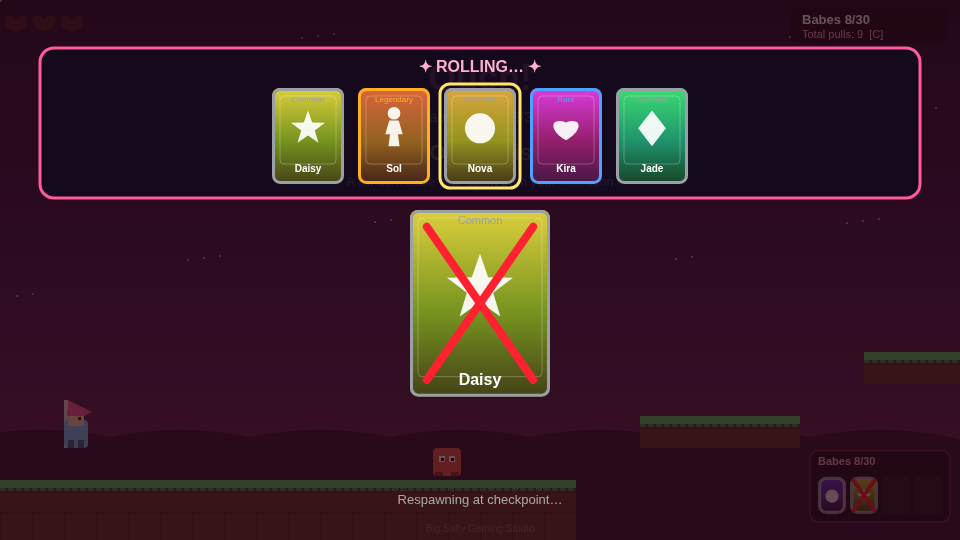
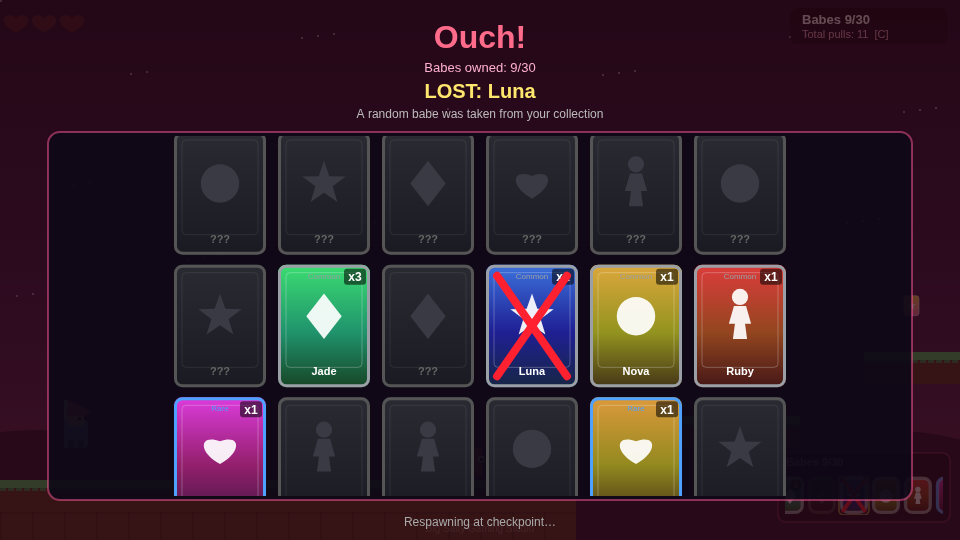
Death grid + HUD 5-slot window over sorted babe pool
Ouch screen shows gallery-style scrolled grid with red X on the
lost babe. HUD slides a 5-slot window to focus gains/losses.

diff --git a/index.html b/index.html
@@ -555,7 +555,6 @@ let slot = null; // slot machine overlay (gameplay keeps running)
 let slotQueue = 0; // pending rolls earned while a roll is already playing
 let loseAnim = null;
 let winStats = null;
-let recentPicks = []; // last up to 4 babe ids for HUD tray
 let runGained = [];   // babe ids gained this run (for win screen)
 let gallery = {
   filter: "all", // all | owned | missing | common | rare | epic | legendary
@@ -563,6 +562,17 @@ let gallery = {
   selected: null, // babe id
 };
 const GALLERY_FILTERS = ["all", "owned", "missing", "common", "rare", "epic", "legendary"];
+// Bottom-right HUD: 5-slot window into sorted full pool
+const HUD_SLOTS = 5;
+const HUD_CW = 28;
+const HUD_GAP = 4;
+let hudTray = {
+  scroll: 0,
+  targetScroll: 0,
+  highlightId: null,
+  highlightT: 0,
+};
+let deathGridScroll = 0; // snap-scroll so lost babe is visible
 
 const player = {
   x: 64, y: 14*TILE - 40, w: 24, h: 36,
@@ -585,7 +595,11 @@ function resetLevel(full) {
     checkpointIdx = 0;
     collection = loadCollection();
     runGained = [];
-    recentPicks = [];
+    hudTray.scroll = 0;
+    hudTray.targetScroll = 0;
+    hudTray.highlightId = null;
+    hudTray.highlightT = 0;
+    deathGridScroll = 0;
     gallery.scroll = 0;
     gallery.selected = null;
     gallery.filter = "all";
@@ -692,6 +706,9 @@ function onHeartsZero() {
     sfx.lose();
   }
   loseAnim = { t: 0, name: lostName, lostId, lostPrevCount, dur: 2.2 };
+  if (lostId) focusHudOnBabe(lostId);
+  // Snap death grid so lost babe is centered (computed in drawDead from list)
+  deathGridScroll = -1; // sentinel: recompute once
   state = "dead";
 }
 
@@ -758,9 +775,8 @@ function finishSlot() {
   const prev = collection[id] || 0;
   collection[id] = prev + 1;
   saveCollection(collection);
-  recentPicks.unshift(id);
-  if (recentPicks.length > 4) recentPicks.length = 4;
   runGained.push(id);
+  focusHudOnBabe(id);
   if (prev === 0) {
     addCallout("NEW! " + slot.result.name, "#ffe66d");
     sfx.new();
@@ -1143,22 +1159,22 @@ function drawWorld() {
 }
 
 
-// Tiny always-on babe tray (gameplay only) — ~1/8 area of death mini panel, CARD_ASPECT locked
 function drawHudLiveBabes() {
   if (state !== "play" && state !== "dead") return;
 
-  const thumbs = 4;
-  const cw = 28;
-  const ch = cardHeight(cw);
-  const gap = 4;
-  const pad = 8;
-  const counterH = 18;
-  const panelW = pad * 2 + thumbs * cw + (thumbs - 1) * gap;
+  const list = sortedBabeList();
+  const cw = HUD_CW, ch = cardHeight(cw), gap = HUD_GAP;
+  const pad = 8, counterH = 16;
+  const panelW = pad * 2 + HUD_SLOTS * cw + (HUD_SLOTS - 1) * gap;
   const panelH = pad + counterH + ch + pad;
   const margin = 10;
   const lift = isTouch ? 108 : 18;
   const panelX = W - panelW - margin;
   const panelY = H - panelH - lift;
+  const step = cw + gap;
+  const maxScroll = Math.max(0, (list.length - HUD_SLOTS) * step);
+  hudTray.scroll = Math.max(0, Math.min(maxScroll, hudTray.scroll));
+  hudTray.targetScroll = Math.max(0, Math.min(maxScroll, hudTray.targetScroll));
 
   ctx.save();
   ctx.globalAlpha = 0.78;
@@ -1175,26 +1191,52 @@ function drawHudLiveBabes() {
   ctx.fillStyle = "#ffb0d0";
   ctx.font = "bold 11px sans-serif";
   ctx.textAlign = "left";
-  ctx.fillText("Babes " + unique + "/" + BABE_POOL.length, panelX + pad, panelY + 14);
+  ctx.fillText("Babes " + unique + "/" + BABE_POOL.length, panelX + pad, panelY + 13);
 
-  for (let i = 0; i < thumbs; i++) {
-    const id = recentPicks[i];
-    const x = panelX + pad + i * (cw + gap);
-    const y = panelY + pad + counterH;
-    if (!id) {
-      ctx.globalAlpha = 0.35;
-      ctx.fillStyle = "#2a2a34";
-      roundRect(x, y, cw, ch, 4);
-      ctx.fill();
-      continue;
+  const viewX = panelX + pad;
+  const viewY = panelY + pad + counterH;
+  const viewW = HUD_SLOTS * cw + (HUD_SLOTS - 1) * gap;
+  ctx.save();
+  ctx.beginPath();
+  ctx.rect(viewX - 1, viewY - 1, viewW + 2, ch + 2);
+  ctx.clip();
+
+  const startIdx = Math.floor(hudTray.scroll / step);
+  const frac = hudTray.scroll - startIdx * step;
+  for (let i = 0; i <= HUD_SLOTS; i++) {
+    const idx = startIdx + i;
+    if (idx < 0 || idx >= list.length) continue;
+    const babe = list[idx];
+    const x = viewX + i * step - frac;
+    const y = viewY;
+    const count = collection[babe.id] || 0;
+    const isLost = state === "dead" && loseAnim && loseAnim.lostId === babe.id;
+    const isHL = hudTray.highlightId === babe.id && hudTray.highlightT > 0;
+    ctx.globalAlpha = count > 0 || isLost ? 0.95 : 0.5;
+    if (isLost) {
+      const displayCount = count > 0 ? count : (loseAnim.lostPrevCount > 1 ? loseAnim.lostPrevCount - 1 : null);
+      drawCard(babe, x, y, cw, ch, {
+        locked: false,
+        count: displayCount && displayCount > 1 ? displayCount : null,
+        iconOnly: true,
+      });
+      drawLostBabeX(x, y, cw, ch, loseAnim.t);
+    } else {
+      drawCard(babe, x, y, cw, ch, {
+        locked: count === 0,
+        iconOnly: true,
+        count: count > 1 ? count : null,
+      });
     }
-    const babe = babeById(id);
-    if (!babe) continue;
-    const isLost = state === "dead" && loseAnim && loseAnim.lostId === id;
-    ctx.globalAlpha = 0.95;
-    drawCard(babe, x, y, cw, ch, { locked: false, iconOnly: true });
-    if (isLost) drawLostBabeX(x, y, cw, ch, loseAnim.t);
+    if (isHL) {
+      const pulse = 0.5 + 0.5 * Math.sin((0.55 - hudTray.highlightT) * 20);
+      ctx.strokeStyle = `rgba(255,230,109,${0.55 + 0.45 * pulse})`;
+      ctx.lineWidth = 2;
+      roundRect(x - 1, y - 1, cw + 2, ch + 2, 5);
+      ctx.stroke();
+    }
   }
+  ctx.restore();
   ctx.restore();
 }
 
@@ -1311,6 +1353,34 @@ function drawSlot() {
     ctx.font = "bold 14px sans-serif";
     ctx.fillText(slot.result.name + " — " + rar.label, W/2, panelY + panelH - 12);
   }
+}
+
+function sortedBabeList() {
+  return BABE_POOL.slice().sort((a, b) => {
+    const rd = rarityRank(a.id) - rarityRank(b.id);
+    if (rd !== 0) return rd;
+    return a.name.localeCompare(b.name);
+  });
+}
+
+function focusHudOnBabe(id) {
+  if (!id) return;
+  const list = sortedBabeList();
+  const idx = list.findIndex(b => b.id === id);
+  if (idx < 0) return;
+  const step = HUD_CW + HUD_GAP;
+  let scroll = (idx - Math.floor(HUD_SLOTS / 2)) * step;
+  const maxScroll = Math.max(0, (list.length - HUD_SLOTS) * step);
+  hudTray.targetScroll = Math.max(0, Math.min(maxScroll, scroll));
+  hudTray.highlightId = id;
+  hudTray.highlightT = 0.55;
+}
+
+function updateHudTray(dt) {
+  const d = hudTray.targetScroll - hudTray.scroll;
+  hudTray.scroll += d * Math.min(1, 14 * dt);
+  if (Math.abs(d) < 0.4) hudTray.scroll = hudTray.targetScroll;
+  if (hudTray.highlightT > 0) hudTray.highlightT -= dt;
 }
 
 function galleryFilteredList() {
@@ -1670,46 +1740,97 @@ function drawMiniCollection(opts) {
 }
 
 function drawDead() {
-  ctx.fillStyle = "rgba(40,5,15,0.7)";
+  ctx.fillStyle = "rgba(40,5,15,0.72)";
   ctx.fillRect(0, 0, W, H);
   ctx.fillStyle = "#ff6b8a";
-  ctx.font = "bold 36px sans-serif";
+  ctx.font = "bold 32px sans-serif";
   ctx.textAlign = "center";
-  ctx.fillText("Ouch!", W / 2, 90);
+  ctx.fillText("Ouch!", W / 2, 48);
   const unique = ownedUniqueCount(collection);
   ctx.fillStyle = "#ffb0d0";
-  ctx.font = "14px sans-serif";
-  ctx.fillText("Babes owned: " + unique + "/" + BABE_POOL.length, W / 2, 122);
+  ctx.font = "13px sans-serif";
+  ctx.fillText("Babes owned: " + unique + "/" + BABE_POOL.length, W / 2, 72);
 
-  if (loseAnim && loseAnim.lostId) {
-    const babe = babeById(loseAnim.lostId);
+  if (loseAnim && loseAnim.name) {
     ctx.fillStyle = "#ffe66d";
-    ctx.font = "bold 22px sans-serif";
-    ctx.fillText("LOST: " + (loseAnim.name || "???"), W / 2, 160);
+    ctx.font = "bold 20px sans-serif";
+    ctx.fillText("LOST: " + loseAnim.name, W / 2, 98);
+    ctx.fillStyle = "#bbb";
+    ctx.font = "12px sans-serif";
+    ctx.fillText("A random babe was taken from your collection", W / 2, 118);
+  } else {
     ctx.fillStyle = "#ccc";
-    ctx.font = "13px sans-serif";
-    ctx.fillText("A random babe was taken from your collection", W / 2, 186);
-    if (babe) {
-      const cw = 140, ch = cardHeight(cw);
-      const x = (W - cw) / 2, y = 210;
-      const displayCount = (collection[babe.id] || 0) > 0
-        ? collection[babe.id]
-        : (loseAnim.lostPrevCount > 1 ? loseAnim.lostPrevCount - 1 : null);
+    ctx.font = "14px sans-serif";
+    ctx.fillText("No babes to lose… this time.", W / 2, 100);
+  }
+
+  // Gallery-style grid (rarity→name), auto-scrolled to lost babe
+  const list = sortedBabeList();
+  const cols = 6;
+  const cw = 92, ch = cardHeight(cw), gapX = 12, gapY = 10;
+  const panelX = 48, panelY = 132;
+  const panelW = W - 96;
+  const panelH = H - panelY - 40;
+  const gridW = cols * cw + (cols - 1) * gapX;
+  const startX = panelX + (panelW - gridW) / 2;
+  const rows = Math.ceil(list.length / cols);
+  const contentH = rows * ch + (rows - 1) * gapY;
+  const maxScroll = Math.max(0, contentH - panelH + 8);
+
+  let focusIdx = loseAnim && loseAnim.lostId
+    ? list.findIndex(b => b.id === loseAnim.lostId) : -1;
+  if (deathGridScroll < 0) {
+    if (focusIdx >= 0) {
+      const row = Math.floor(focusIdx / cols);
+      const rowY = row * (ch + gapY);
+      deathGridScroll = Math.max(0, Math.min(maxScroll, rowY - (panelH - ch) / 2));
+    } else {
+      deathGridScroll = 0;
+    }
+  }
+  deathGridScroll = Math.max(0, Math.min(maxScroll, deathGridScroll));
+
+  ctx.fillStyle = "rgba(12,8,22,0.88)";
+  roundRect(panelX, panelY, panelW, panelH, 12);
+  ctx.fill();
+  ctx.strokeStyle = "rgba(255,90,154,0.5)";
+  ctx.lineWidth = 2;
+  roundRect(panelX, panelY, panelW, panelH, 12);
+  ctx.stroke();
+
+  ctx.save();
+  ctx.beginPath();
+  ctx.rect(panelX + 4, panelY + 4, panelW - 8, panelH - 8);
+  ctx.clip();
+
+  for (let i = 0; i < list.length; i++) {
+    const col = i % cols, row = Math.floor(i / cols);
+    const x = startX + col * (cw + gapX);
+    const y = panelY + 10 + row * (ch + gapY) - deathGridScroll;
+    if (y + ch < panelY || y > panelY + panelH) continue;
+    const babe = list[i];
+    const count = collection[babe.id] || 0;
+    const isLost = loseAnim && loseAnim.lostId === babe.id;
+    if (isLost) {
+      const displayCount = count > 0 ? count : (loseAnim.lostPrevCount > 1 ? loseAnim.lostPrevCount - 1 : null);
       drawCard(babe, x, y, cw, ch, {
         locked: false,
         count: displayCount,
-        showRarity: true,
       });
       drawLostBabeX(x, y, cw, ch, loseAnim.t);
+    } else {
+      drawCard(babe, x, y, cw, ch, {
+        locked: count === 0,
+        count: count > 0 ? count : null,
+      });
     }
-  } else {
-    ctx.fillStyle = "#ccc";
-    ctx.font = "16px sans-serif";
-    ctx.fillText("No babes to lose… this time.", W / 2, 170);
   }
+  ctx.restore();
+
   ctx.fillStyle = "#aaa";
-  ctx.font = "13px sans-serif";
-  ctx.fillText("Respawning at checkpoint…", W / 2, H - 36);
+  ctx.font = "12px sans-serif";
+  ctx.textAlign = "center";
+  ctx.fillText("Respawning at checkpoint…", W / 2, H - 14);
 }
 
 function drawWin() {
@@ -1824,6 +1945,7 @@ function frame(dt) {
 
   // update — gameplay + slot overlay run together
   updateParticles(dt);
+  updateHudTray(dt);
   if (slot) updateSlot(dt);
   if (state === "play") {
     updatePlay(dt);
@@ -1894,7 +2016,7 @@ window.__HBC = {
       worldPickup: { ...world, ratio: world.w / world.h },
       miniDeath: { ...death, ratio: death.w / death.h },
       miniWin: { ...win, ratio: win.w / win.h },
-      hudLive: { ...hud, ratio: hud.w / hud.h },
+      hudLive: { w: HUD_CW, h: cardHeight(HUD_CW), ratio: HUD_CW / cardHeight(HUD_CW) },
     };
   },
   getLoseAnim: () => loseAnim,
@@ -1921,8 +2043,9 @@ window.__HBC = {
   setGalleryFilter: (f) => { gallery.filter = f; gallery.scroll = 0; },
   getGallery: () => gallery,
   getBabePool: () => BABE_POOL,
-  getRecentPicks: () => recentPicks,
   getRunGained: () => runGained,
+  getHudTray: () => hudTray,
+  focusHudOnBabe: (id) => focusHudOnBabe(id),
 };
 </script>
 </body>

diff --git a/README.md b/README.md
@@ -21,12 +21,12 @@ On touch devices, on-screen buttons appear (← → jump C).
 ## Design notes (prototype)
 
 - **Babe pool**: **30** data-driven placeholders in `BABE_POOL` (append entries to grow). Shared **3:4** aspect (`CARD_ASPECT = 72/96`).
-- **HUD**: bottom-right live tray — `Babes N/30` plus the last **4** pickup thumbs (icon-only, 3:4).
+- **HUD**: bottom-right 5-slot window into the sorted 30-babe list (`Babes N/30`, icon-only 3:4); slides to focus gains/losses with a brief highlight.
 - **Gallery (C)**: scrollable grid, rarity→name sort, filters All / Owned / Missing / Common / Rare / Epic / Legendary, click for detail.
 - **Collectibles**: **6** babe-coins in the level (sparse). Respawns on death.
 - **Coins → babes**: ~1.2s slot roll overlay (gameplay continues); queued pickups; pre-planted result (no snap).
 - **Hearts**: 3 HP. Hit = knockback (~290 px/s away, vy −280) + 0.25s stun + invuln flash. Stomp from above.
-- **Death**: shows the **lost babe** with a fast pen-stroke red X + owned count (not the full grid). Pit = full wipe + lose one babe.
+- **Death**: gallery-style scrolled grid (rarity→name) with the lost babe crossed by a pen-stroke red X; owned count in header. Pit = full wipe + lose one babe.
 - **Win**: babes gained this run (scrollable row) + totals.
 - **Save**: `hbc_collection_v1` counts map; also writes `hbc_collection_v2` wrapper (v1 still loaded/migrated).
 
